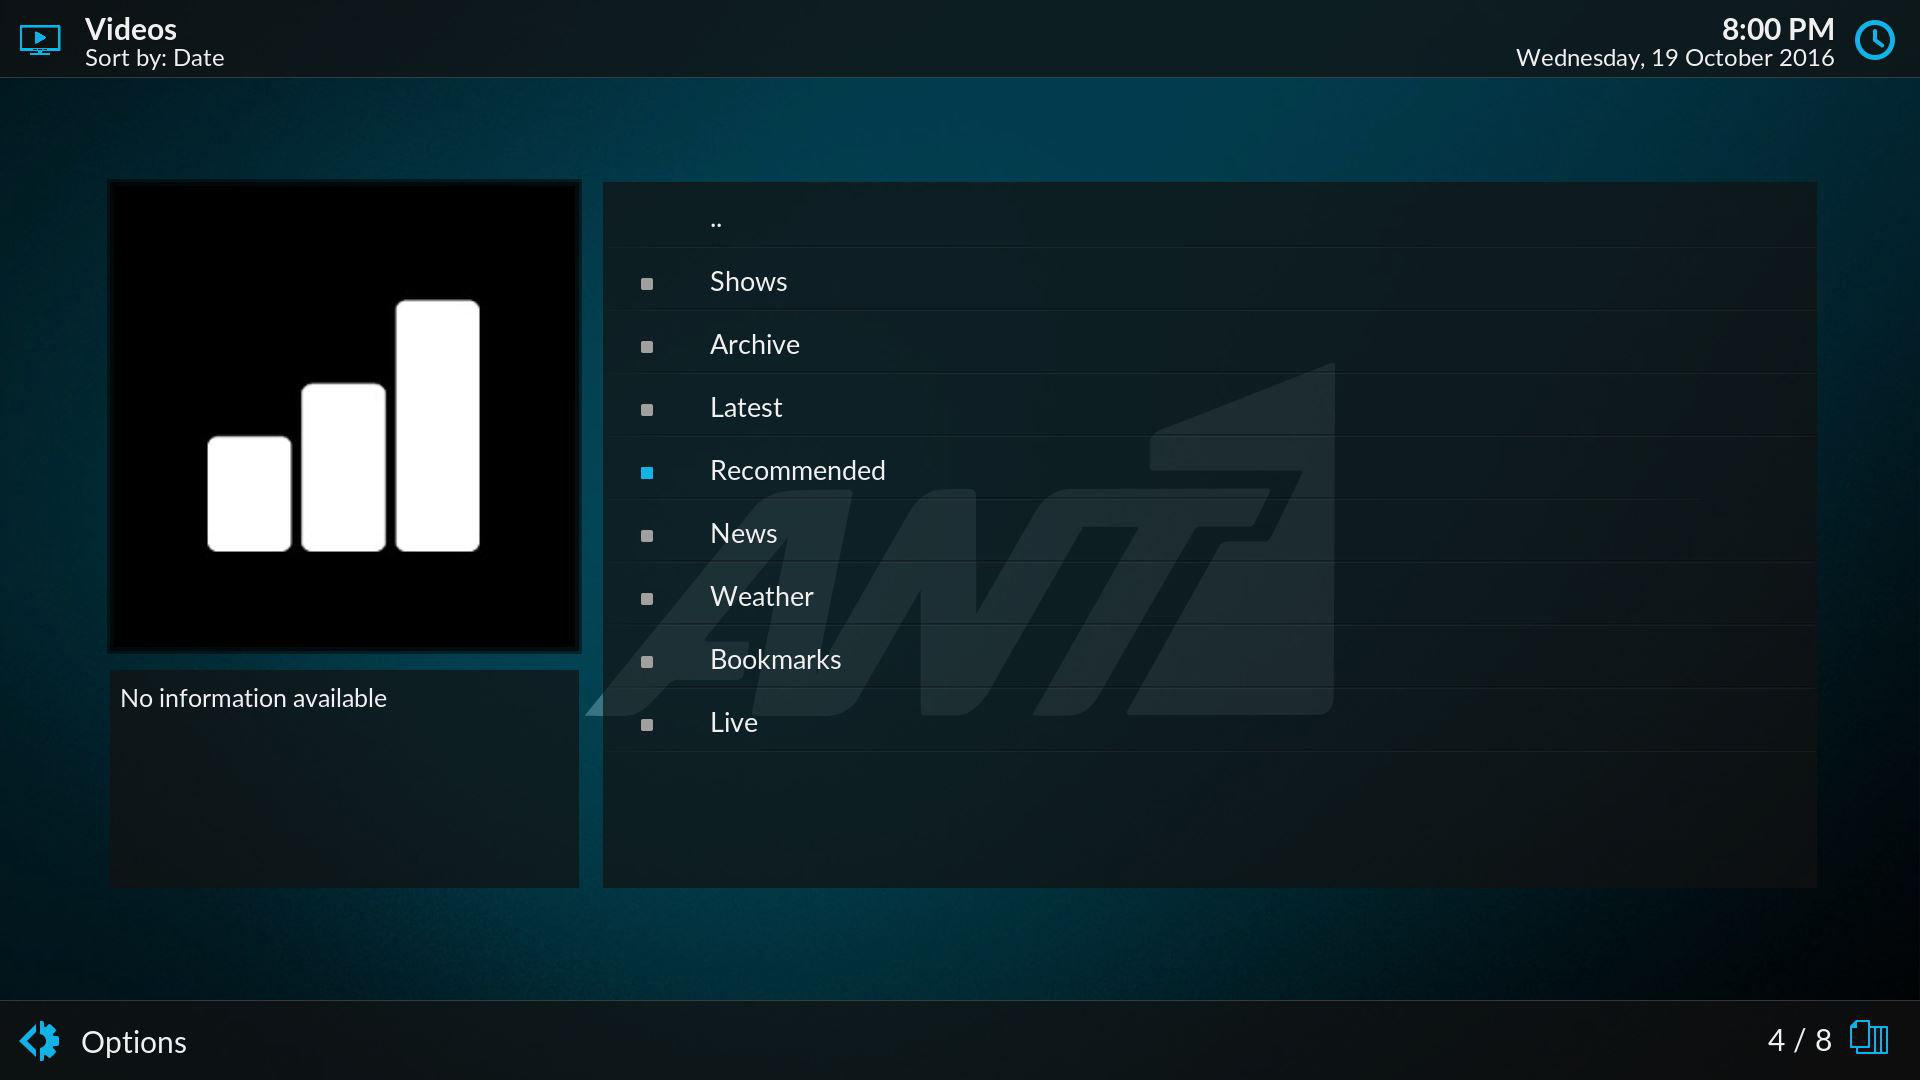
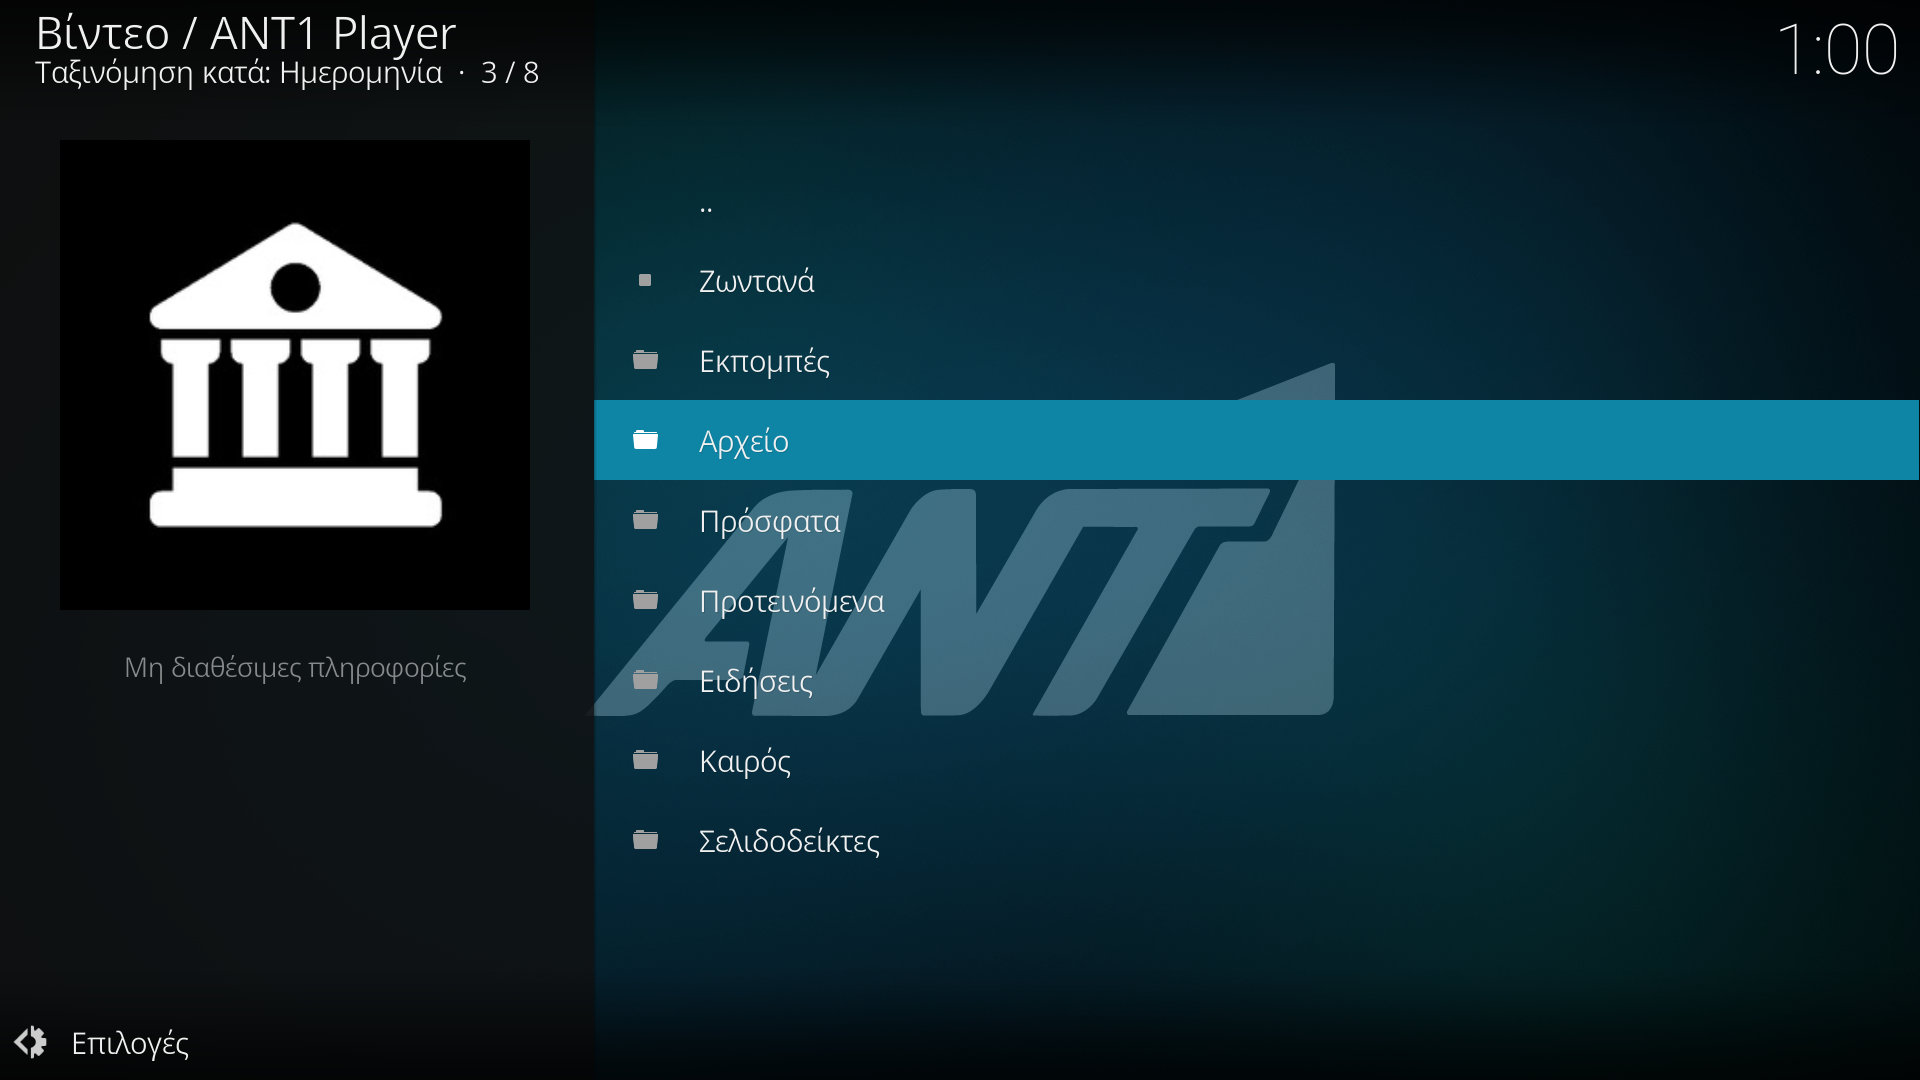
[plugin.video.antenna.gr] 1.1.0

diff --git a/plugin.video.antenna.gr/resources/lib/antenna.py b/plugin.video.antenna.gr/resources/lib/antenna.py
@@ -43,55 +43,55 @@ class indexer:
         self.list = [
         {
         'title': 32001,
+        'action': 'live',
+        'isFolder': 'False',
+        'icon': 'live.png'
+        },
+
+        {
+        'title': 32002,
         'action': 'tvshows',
         'icon': 'tvshows.png'
         },
 
         {
-        'title': 32002,
+        'title': 32003,
         'action': 'archive',
         'icon': 'archive.png'
         },
 
         {
-        'title': 32003,
+        'title': 32004,
         'action': 'popular',
         'icon': 'popular.png'
         },
 
         {
-        'title': 32004,
+        'title': 32005,
         'action': 'recommended',
         'icon': 'recommended.png'
         },
 
         {
-        'title': 32005,
+        'title': 32006,
         'action': 'news',
         'icon': 'news.png'
         },
 
         {
-        'title': 32006,
+        'title': 32007,
         'action': 'weather',
         'icon': 'weather.png'
         },
 
         {
-        'title': 32007,
+        'title': 32008,
         'action': 'bookmarks',
         'icon': 'bookmarks.png'
-        },
-
-        {
-        'title': 32008,
-        'action': 'live',
-        'isFolder': 'False',
-        'icon': 'live.png'
         }
         ]
 
-        directory.add(self.list)
+        directory.add(self.list, content='videos')
         return self.list
 
 
@@ -108,7 +108,7 @@ class indexer:
         self.list = sorted(self.list, key=lambda k: k['title'].lower())
         self.list = [i for i in self.list if 'url' in i and self.episodes_link in i['url']]
 
-        directory.add(self.list)
+        directory.add(self.list, content='videos')
         return self.list
 
 
@@ -126,7 +126,7 @@ class indexer:
 
         self.list = sorted(self.list, key=lambda k: k['title'].lower())
 
-        directory.add(self.list)
+        directory.add(self.list, content='videos')
         return self.list
 
 
@@ -144,7 +144,7 @@ class indexer:
 
         self.list = sorted(self.list, key=lambda k: k['title'].lower())
 
-        directory.add(self.list)
+        directory.add(self.list, content='videos')
         return self.list
 
 
@@ -158,7 +158,7 @@ class indexer:
         if reverse == True:
             self.list = self.list[::-1]
 
-        directory.add(self.list, content='files')
+        directory.add(self.list, content='videos')
         return self.list
 
 
